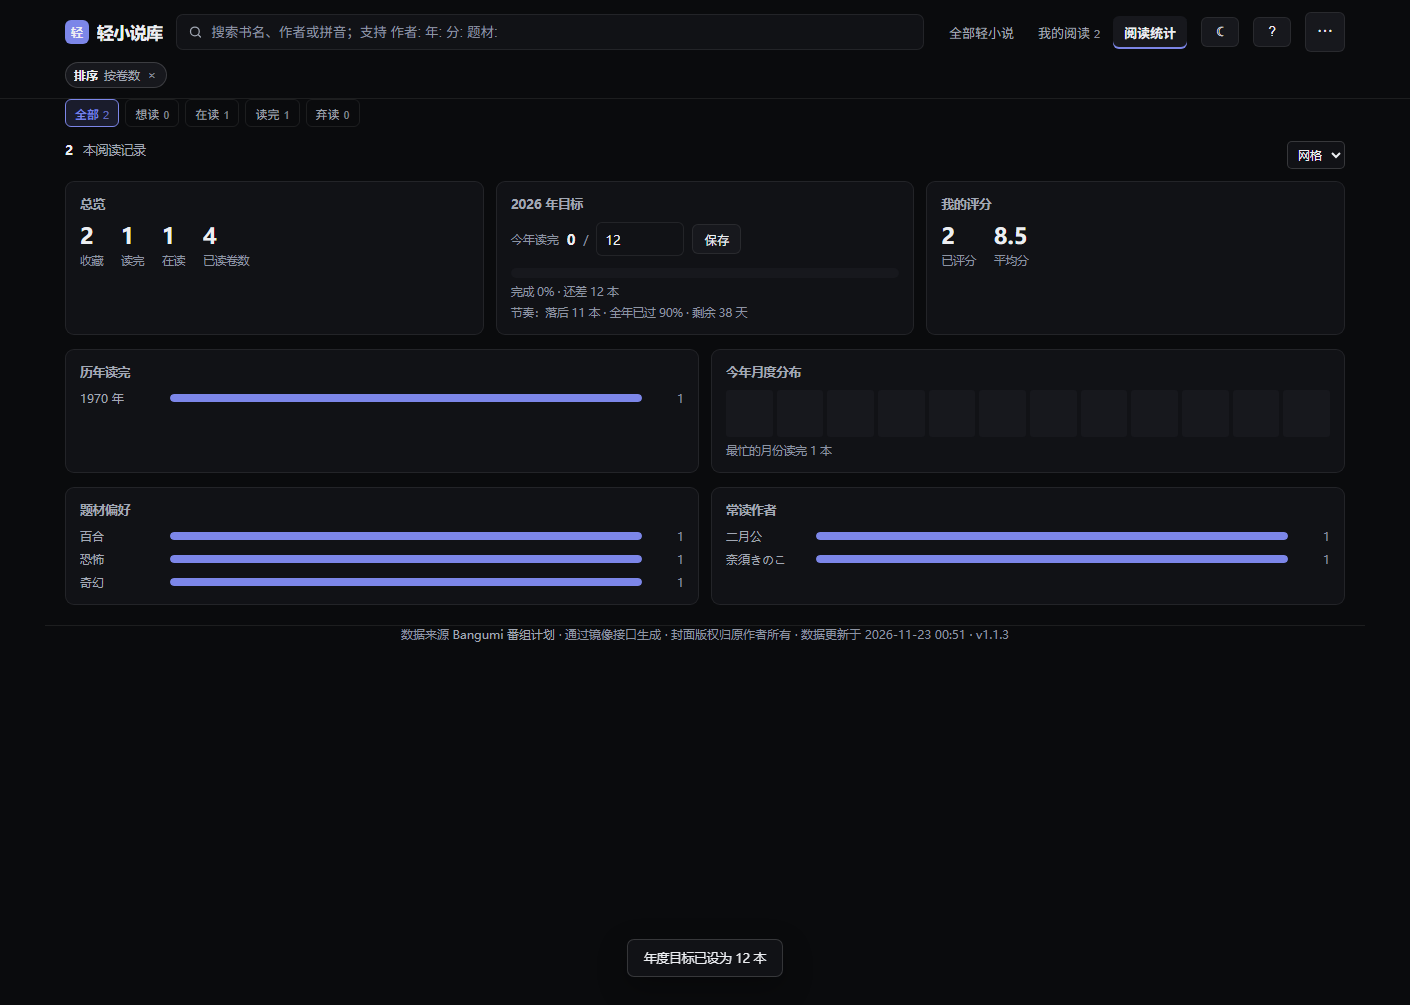
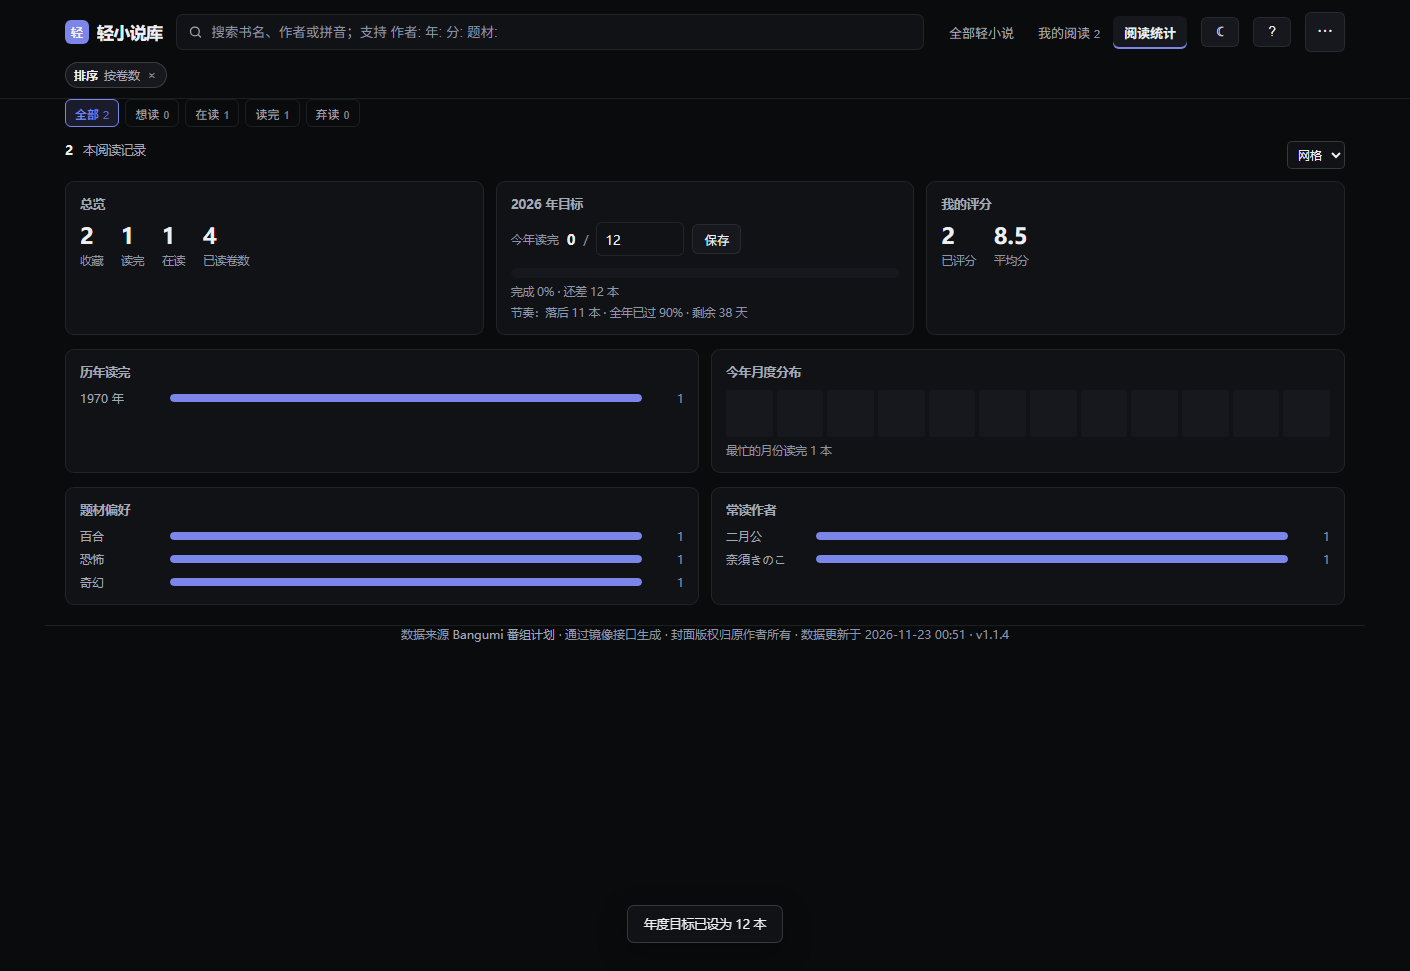
improve: 书评草稿自动保留与恢复（参考 StoryGraph/Goodreads 长文本编辑）

diff --git a/index.html b/index.html
@@ -2561,7 +2561,7 @@
 </main>
 
 <footer class="wrap">
-  数据来源 <a href="https://bgm.tv" target="_blank" rel="noreferrer">Bangumi 番组计划</a> · 通过镜像接口生成 · 封面版权归原作者所有 · 数据更新于 <span id="dataUpdated" title="Bangumi 数据快照生成时间">—</span> · <span title="项目版本">v1.1.3</span>
+  数据来源 <a href="https://bgm.tv" target="_blank" rel="noreferrer">Bangumi 番组计划</a> · 通过镜像接口生成 · 封面版权归原作者所有 · 数据更新于 <span id="dataUpdated" title="Bangumi 数据快照生成时间">—</span> · <span title="项目版本">v1.1.4</span>
 </footer>
 
 <div class="modal" id="modal" hidden>
@@ -2707,6 +2707,7 @@
   var DEL_KEY = 'yuc_ln_deleted_v1';
   var SETTINGS_KEY = 'yuc_ln_settings_v1';
   var GOAL_KEY = 'yuc_ln_goal_v1';
+  var DRAFT_KEY = 'yuc_ln_draft_v1';
   var SETTINGS_DEFAULT = { font: 'md', density: 'std', motion: 'system' };
   var settings = { font: 'md', density: 'std', motion: 'system' };
 
@@ -2895,6 +2896,53 @@
     if (!myDeleted[id]) return;
     delete myDeleted[id];
     persistDeleted();
+  }
+
+  // 书评草稿：输入时暂存本机，关闭详情、切换书目或刷新后仍可恢复
+  function loadDrafts() {
+    try {
+      var parsed = JSON.parse(localStorage.getItem(DRAFT_KEY) || '{}');
+      if (!parsed || typeof parsed !== 'object') return {};
+      var out = {};
+      Object.keys(parsed).forEach(function (id) {
+        if (!/^\d+$/.test(id)) return;
+        var d = parsed[id];
+        if (!d || typeof d !== 'object') return;
+        out[id] = {
+          rv: String(d.rv || '').slice(0, 140),
+          nt: String(d.nt || '').slice(0, 1000),
+          t: Number(d.t) || 0
+        };
+      });
+      return out;
+    } catch (e) {
+      return {};
+    }
+  }
+
+  function persistDrafts(drafts) {
+    try {
+      localStorage.setItem(DRAFT_KEY, JSON.stringify(drafts));
+    } catch (e) { /* 隐私模式下忽略 */ }
+  }
+
+  // 与已保存内容一致（或已移出收藏）时清掉草稿，避免恢复陈旧文本
+  function saveDraft(id, rv, nt) {
+    var drafts = loadDrafts();
+    var entry = myMap[id];
+    if (!entry || (String(rv).trim() === entry.rv && String(nt).trim() === entry.nt)) {
+      delete drafts[id];
+    } else {
+      drafts[id] = { rv: String(rv), nt: String(nt), t: Date.now() };
+    }
+    persistDrafts(drafts);
+  }
+
+  function clearDraft(id) {
+    var drafts = loadDrafts();
+    if (!drafts[id]) return;
+    delete drafts[id];
+    persistDrafts(drafts);
   }
 
   function saveMine(opts) {
@@ -4497,6 +4545,12 @@
         '<span class="review-hint">加入我的阅读后可评分、写短评与笔记</span></div>';
     } else {
       var mine = myMap[id];
+      var draft = loadDrafts()[id];
+      // 只在草稿晚于最近一次书评保存、且内容确实不同时恢复，避免云端旧数据把草稿带回来
+      var hasDraft = !!(draft && draft.t > (Number(mine.rvU) || 0) &&
+        (draft.rv !== (mine.rv || '') || draft.nt !== (mine.nt || '')));
+      var rvText = hasDraft ? draft.rv : (mine.rv || '');
+      var ntText = hasDraft ? draft.nt : (mine.nt || '');
       var stars = '';
       for (var n = 1; n <= 10; n += 1) {
         stars += '<button type="button" data-rate="' + n + '"' + (mine.r === n ? ' class="on"' : '') +
@@ -4505,14 +4559,15 @@
       if (mine.r) stars += '<button type="button" data-rate="0" title="清除我的评分">清除</button>';
       reviewEl.innerHTML =
         '<div class="review-head"><b>我的书评</b><span class="review-hint">' +
-          (mine.u ? '更新于 ' + fmtDate(mine.u) : '') + '</span></div>' +
+          (hasDraft ? '已恢复未保存草稿 · 保存后写入记录'
+            : (mine.u ? '更新于 ' + fmtDate(mine.u) : '')) + '</span></div>' +
         '<div class="rating-row" role="group" aria-label="我的评分">' + stars + '</div>' +
         '<textarea id="reviewShort" maxlength="140" placeholder="短评（140 字内）" aria-label="短评">' +
-          escapeHtml(mine.rv || '') + '</textarea>' +
+          escapeHtml(rvText) + '</textarea>' +
         '<textarea id="reviewNote" maxlength="1000" placeholder="笔记：剧情、感想、想读的卷……" aria-label="笔记">' +
-          escapeHtml(mine.nt || '') + '</textarea>' +
+          escapeHtml(ntText) + '</textarea>' +
         '<div class="review-foot"><span class="review-count" id="reviewCount">' +
-          (mine.rv || '').length + '/140 · ' + (mine.nt || '').length + '/1000</span>' +
+          rvText.length + '/140 · ' + ntText.length + '/1000</span>' +
           '<button class="btn primary" type="button" id="reviewSave">保存书评</button></div>';
     }
 
@@ -4600,6 +4655,7 @@
     if (myMap[id]) {
       var prev = myMap[id];
       delete myMap[id];
+      clearDraft(id);
       markDeleted(id);
       saveMine();
       render();
@@ -5570,6 +5626,7 @@
     if (!item) return;
     if (myMap[id]) {
       delete myMap[id];
+      clearDraft(id);
       markDeleted(id);
       toast('已移除：' + (item.cn || item.n));
     } else {
@@ -5604,7 +5661,18 @@
       : '进度：第 ' + vol + ' / ' + total + ' 卷');
   });
 
-  // 书评：评分即时保存；短评与笔记点「保存书评」提交
+  // 书评：评分即时保存；短评与笔记输入即存草稿，点「保存书评」正式提交
+  function refreshReviewCount() {
+    var row = $('reviewCount');
+    var rv = $('reviewShort');
+    var nt = $('reviewNote');
+    if (!row || !rv || !nt) return;
+    var entry = modalId ? myMap[modalId] : null;
+    var dirty = !!(entry && (rv.value.trim() !== (entry.rv || '') || nt.value.trim() !== (entry.nt || '')));
+    row.textContent = rv.value.length + '/140 · ' + nt.value.length + '/1000' +
+      (dirty ? ' · 草稿已自动保存' : '');
+  }
+
   $('detailReview').addEventListener('click', function (e) {
     var btn = e.target.closest('[data-rate]');
     if (!btn || !modalId || !myMap[modalId]) return;
@@ -5614,23 +5682,20 @@
     myMap[id].rvU = myMap[id].u;
     saveMine();
     render();
-    var row = $('reviewCount');
-    var rv = $('reviewShort');
-    var nt = $('reviewNote');
     var box = $('detailReview');
     box.querySelectorAll('[data-rate]').forEach(function (b) {
       var on = Number(b.dataset.rate) === myMap[id].r && Number(b.dataset.rate) > 0;
       b.classList.toggle('on', on);
       b.setAttribute('aria-pressed', String(on));
     });
-    if (row && rv && nt) row.textContent = rv.value.length + '/140 · ' + nt.value.length + '/1000';
+    refreshReviewCount();
   });
   $('detailReview').addEventListener('input', function (e) {
     if (!e.target.matches('textarea')) return;
-    var row = $('reviewCount');
     var rv = $('reviewShort');
     var nt = $('reviewNote');
-    if (row && rv && nt) row.textContent = rv.value.length + '/140 · ' + nt.value.length + '/1000';
+    if (modalId && myMap[modalId] && rv && nt) saveDraft(modalId, rv.value, nt.value);
+    refreshReviewCount();
   });
   $('detailReview').addEventListener('click', function (e) {
     if (!e.target.closest('#reviewSave') || !modalId || !myMap[modalId]) return;
@@ -5640,6 +5705,7 @@
     entry.nt = String(($('reviewNote') || {}).value || '').slice(0, 1000).trim();
     entry.u = Date.now();
     entry.rvU = entry.u;
+    clearDraft(id);
     saveMine();
     render();
     renderDetail(id);
@@ -6122,6 +6188,7 @@
     var ts = Date.now();
     ids.forEach(function (id) { myDeleted[id] = ts; });
     myMap = {};
+    persistDrafts({});
     persistDeleted();
     saveMine();
     render();

diff --git a/sw.js b/sw.js
@@ -1,5 +1,5 @@
 // 应用壳离线缓存：首页网络优先并带超时回退，其余同源资源缓存优先、后台更新
-var CACHE = 'yuc-ln-shell-v6';
+var CACHE = 'yuc-ln-shell-v7';
 var SHELL = ['./', './index.html', './manifest.webmanifest', './icon.svg', './icons/icon-180.png', './icons/icon-192.png', './icons/icon-512.png', './data/light-novels.js'];
 var IMG_LIMIT = 400;
 

diff --git a/HANDOVER.md b/HANDOVER.md
@@ -1,10 +1,10 @@
 # 轻小说库 · 落实与交接
 
 - 文档日期：2026-11-23
-- 当前状态：**v1.1.3 完成**（数据、页面、书评、统计、Gist 同步、PWA、自动化验收 124/124）
+- 当前状态：**v1.1.4 完成**（数据、页面、书评、统计、Gist 同步、PWA、自动化验收 128/128）
 - 模板项目：`../番剧`（Bangumi Anime Library v1.6.8）
 - 模板线上：<https://xyykmkefke.github.io/bangumi-anime-library/>
-- 目标版本：v1.1.3（已达成，补丁：我的阅读排序）
+- 目标版本：v1.1.4（已达成，补丁：书评草稿自动保留）
 
 ## 1. 目标与边界
 
@@ -390,6 +390,15 @@ PWA / 移动端：
 - 版本与缓存：页脚、manifest、package.json 升至 1.1.3；SW 缓存名升到 `yuc-ln-shell-v6`。
 - 测试：`check-data` 问题 0；`test-merge` 20/20；`verify` 124/124（新增我的评分 / 阅读进度 / 最近更新排序 3 项）。
 - 来源：<https://www.raycast.com/maxchang3/bangumi>、<https://bangumi.github.io/api/>、<https://hellogithub.com/repository/f33414cc05504c4685016a1103cda422>、<https://www.juxia.com/sjwy/ruanjian-693739.html>。
+
+## 9.7 v1.1.4 补丁记录（2026-11-23）
+
+- 参考 StoryGraph / Goodreads 对长文本编辑的处理：错按关闭或切换书籍不应丢失正在写的内容，草稿先落本地、正式保存才写入记录。
+- 短评 / 笔记输入时即写入本机 `yuc_ln_draft_v1`（与收藏记录分离，不进入 Gist 同步协议）；详情底部字数提示同时显示「草稿已自动保存」。
+- 重新打开详情时，若草稿时间晚于最近一次书评保存且内容不同，则自动回填并提示「已恢复未保存草稿」；点「保存书评」后清除草稿；移出收藏、清空列表时一并清理对应草稿。
+- 版本与缓存：页脚、manifest、package.json 升至 1.1.4；SW 缓存名升到 `yuc-ln-shell-v7`。
+- 测试：`check-data` 问题 0；`test-merge` 20/20；`verify` 128/128（新增草稿暂存、重开恢复、草稿提示、保存后清除 4 项）。
+- 来源：<https://roadmap.thestorygraph.com/requests-ideas/posts/add-spoiler-tag-to-reviews>、<https://roadmap.thestorygraph.com/changelog>、<https://hardcover.app/blog/hardcover-report-for-september-2026>。
 
 ## 10. 已知风险与决策
 
